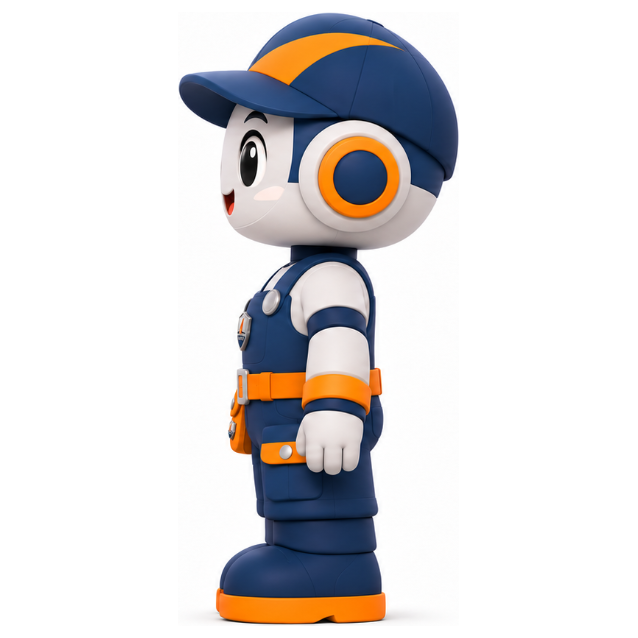
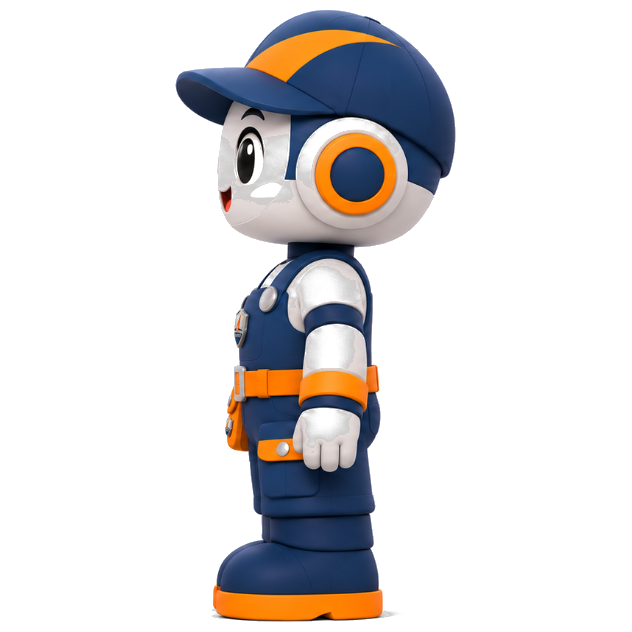
Remove badge and fix mascot side-view ghosting.
Knock white backgrounds to true transparency and switch poses discretely instead of blending front/side frames.

diff --git a/src/Mascot.tsx b/src/Mascot.tsx
@@ -23,7 +23,9 @@ export function MascotGuide() {
   const [ready, setReady] = useState(false);
   const [open, setOpen] = useState(true);
   const [hidden, setHidden] = useState(false);
-  const [tilt, setTilt] = useState({ x: 0, y: 0, side: 0 });
+  /** front | look-left (native side art) | look-right (mirrored side) */
+  const [pose, setPose] = useState<"front" | "left" | "right">("front");
+  const [tilt, setTilt] = useState({ x: 0, y: 0 });
 
   useEffect(() => {
     try {
@@ -45,24 +47,37 @@ export function MascotGuide() {
     const fine = window.matchMedia("(pointer: fine)").matches;
     if (!fine) return;
 
+    let frame = 0;
     function onMove(event: MouseEvent) {
-      const node = rootRef.current;
-      if (!node) return;
-      const rect = node.getBoundingClientRect();
-      const cx = rect.left + rect.width * 0.5;
-      const cy = rect.top + rect.height * 0.45;
-      const dx = (event.clientX - cx) / Math.max(window.innerWidth, 1);
-      const dy = (event.clientY - cy) / Math.max(window.innerHeight, 1);
-      const side = Math.max(-1, Math.min(1, (cx - event.clientX) / 280));
-      setTilt({
-        x: Math.max(-8, Math.min(8, dy * -10)),
-        y: Math.max(-12, Math.min(12, dx * 14)),
-        side: side > 0.35 ? Math.min(1, (side - 0.35) / 0.45) : 0,
+      cancelAnimationFrame(frame);
+      frame = requestAnimationFrame(() => {
+        const node = rootRef.current;
+        if (!node) return;
+        const rect = node.getBoundingClientRect();
+        const cx = rect.left + rect.width * 0.5;
+        const cy = rect.top + rect.height * 0.45;
+        const dx = (event.clientX - cx) / Math.max(window.innerWidth, 1);
+        const dy = (event.clientY - cy) / Math.max(window.innerHeight, 1);
+        const offset = event.clientX - cx;
+
+        // Discrete pose swap — no opacity blend (that caused the white ghost bug).
+        let next: "front" | "left" | "right" = "front";
+        if (offset < -72) next = "left";
+        else if (offset > 72) next = "right";
+
+        setPose(next);
+        setTilt({
+          x: Math.max(-6, Math.min(6, dy * -8)),
+          y: Math.max(-8, Math.min(8, dx * 10)),
+        });
       });
     }
 
     window.addEventListener("mousemove", onMove, { passive: true });
-    return () => window.removeEventListener("mousemove", onMove);
+    return () => {
+      cancelAnimationFrame(frame);
+      window.removeEventListener("mousemove", onMove);
+    };
   }, [hidden, ready]);
 
   function hide() {
@@ -94,6 +109,8 @@ export function MascotGuide() {
     );
   }
 
+  const showSide = pose !== "front";
+
   return (
     <div
       ref={rootRef}
@@ -119,21 +136,24 @@ export function MascotGuide() {
         aria-label={text.mascot.label}
         onClick={() => setOpen((value) => !value)}
       >
-        <span
-          className="mascot-tilt"
-          style={{ transform: `rotateX(${tilt.x}deg) rotateY(${tilt.y}deg)` }}
-        >
+        <span className="mascot-tilt" style={{ transform: `rotateX(${tilt.x}deg) rotateY(${tilt.y}deg)` }}>
           <span className="mascot-bob">
-            <span className="mascot-stage">
-              <img className="mascot-front" src={sales.mascotSrc} alt="" width={148} height={148} draggable={false} />
+            <span className={`mascot-stage${showSide ? " is-side" : ""}`}>
               <img
-                className="mascot-side"
+                className={`mascot-front${showSide ? " is-hidden" : ""}`}
+                src={sales.mascotSrc}
+                alt=""
+                width={148}
+                height={148}
+                draggable={false}
+              />
+              <img
+                className={`mascot-side${showSide ? " is-shown" : ""}${pose === "right" ? " is-flip" : ""}`}
                 src={sales.mascotSideSrc}
                 alt=""
                 width={148}
                 height={148}
                 draggable={false}
-                style={{ opacity: tilt.side }}
               />
             </span>
           </span>
@@ -141,18 +161,5 @@ export function MascotGuide() {
         <span className="mascot-shadow" aria-hidden="true" />
       </button>
     </div>
-  );
-}
-
-export function BrandBadge({ className = "" }: { className?: string }) {
-  return (
-    <img
-      className={`brand-badge ${className}`.trim()}
-      src={sales.badgeSrc}
-      alt="TAIHONG"
-      width={72}
-      height={72}
-      loading="lazy"
-    />
   );
 }

diff --git a/src/styles.css b/src/styles.css
@@ -1300,14 +1300,32 @@ textarea { min-height: 8rem; resize: vertical; }
   pointer-events: none;
 }
 
+.mascot-front,
+.mascot-side {
+  transition: opacity 0.18s ease, transform 0.18s ease;
+}
+
 .mascot-front {
   opacity: 1;
-  transition: opacity 0.25s ease;
+  z-index: 1;
+}
+
+.mascot-front.is-hidden {
+  opacity: 0;
 }
 
 .mascot-side {
   opacity: 0;
-  transition: opacity 0.25s ease;
+  z-index: 2;
+  pointer-events: none;
+}
+
+.mascot-side.is-shown {
+  opacity: 1;
+}
+
+.mascot-side.is-flip {
+  transform: scaleX(-1);
 }
 
 .mascot-shadow {
@@ -1349,45 +1367,6 @@ textarea { min-height: 8rem; resize: vertical; }
   background: #f2f5f9;
 }
 
-.brand-badge {
-  display: block;
-  width: 56px;
-  height: auto;
-  filter: drop-shadow(0 6px 12px rgba(11, 42, 74, 0.12));
-  animation: badge-shine 4.8s ease-in-out infinite;
-}
-
-.brand-badge-lg {
-  width: 88px;
-}
-
-.foot-marks {
-  display: flex;
-  align-items: center;
-  gap: 0.75rem;
-  margin-bottom: 0.45rem;
-}
-
-.foot-marks .mark-lg {
-  margin-bottom: 0;
-}
-
-.badge-lead {
-  display: flex;
-  align-items: center;
-  gap: 1rem;
-  margin-bottom: 1.4rem;
-  padding: 0.9rem 1rem;
-  background: #fff;
-  border: 1px solid var(--line);
-  border-radius: 12px;
-}
-
-.badge-lead .fine {
-  margin: 0;
-  max-width: 40rem;
-}
-
 @keyframes mascot-bob {
   0%, 100% { transform: translateY(0); }
   50% { transform: translateY(-7px); }
@@ -1396,11 +1375,6 @@ textarea { min-height: 8rem; resize: vertical; }
 @keyframes mascot-shadow {
   0%, 100% { transform: scaleX(1); opacity: 0.55; }
   50% { transform: scaleX(0.82); opacity: 0.35; }
-}
-
-@keyframes badge-shine {
-  0%, 100% { filter: drop-shadow(0 6px 12px rgba(11, 42, 74, 0.12)) brightness(1); }
-  50% { filter: drop-shadow(0 8px 16px rgba(232, 93, 4, 0.18)) brightness(1.04); }
 }
 
 html[dir="rtl"] .mascot-guide,
@@ -1503,8 +1477,7 @@ html[dir="rtl"] .mascot-bubble {
   }
 
   .mascot-bob,
-  .mascot-shadow,
-  .brand-badge {
+  .mascot-shadow {
     animation: none !important;
   }
 

diff --git a/src/layout.tsx b/src/layout.tsx
@@ -2,7 +2,7 @@ import { useEffect, useRef, useState } from "react";
 import { NavLink, useLocation } from "react-router-dom";
 import { copy } from "./copy";
 import { sales } from "./data";
-import { BrandBadge, MascotGuide } from "./Mascot";
+import { MascotGuide } from "./Mascot";
 import { initReveals } from "./motion";
 import { useApp } from "./state";
 import { LANGS, type Lang } from "./types";
@@ -130,11 +130,8 @@ export function Shell({ children }: { children: React.ReactNode }) {
       <main id="content">{children}</main>
       <footer className="foot">
         <div className="wrap foot-grid">
-          <div className="foot-brand">
-            <div className="foot-marks">
-              <Mark large />
-              <BrandBadge />
-            </div>
+          <div>
+            <Mark large />
             <p>
               {lang === "zh" ? sales.brandZh : `${sales.brandEn} ${sales.brandSubEn}`}
               <span> · {text.footerPlace}</span>

diff --git a/src/pages/Factory.tsx b/src/pages/Factory.tsx
@@ -1,6 +1,5 @@
 import { copy } from "../copy";
 import { PageHead } from "../layout";
-import { BrandBadge } from "../Mascot";
 import { useApp, useTitle } from "../state";
 
 export function Factory() {
@@ -13,10 +12,6 @@ export function Factory() {
     <>
       <PageHead kicker={page.kicker} title={page.title} lede={page.lede} />
       <section className="section">
-        <div className="wrap badge-lead" data-reveal>
-          <BrandBadge className="brand-badge-lg" />
-          <p className="fine">{page.lede}</p>
-        </div>
         <div className="wrap steps">
           {page.steps.map((step, index) => (
             <article key={step.t}>

diff --git a/src/data.ts b/src/data.ts
@@ -18,7 +18,6 @@ export const sales = {
   bannerSrc: `${import.meta.env.BASE_URL}hero-banner.jpg`,
   mascotSrc: `${import.meta.env.BASE_URL}ip-mascot.png`,
   mascotSideSrc: `${import.meta.env.BASE_URL}ip-mascot-side.png`,
-  badgeSrc: `${import.meta.env.BASE_URL}badge-taihong.png`,
 };
 
 export const tonePaint: Record<Tone, { body: string; trim: string }> = {
